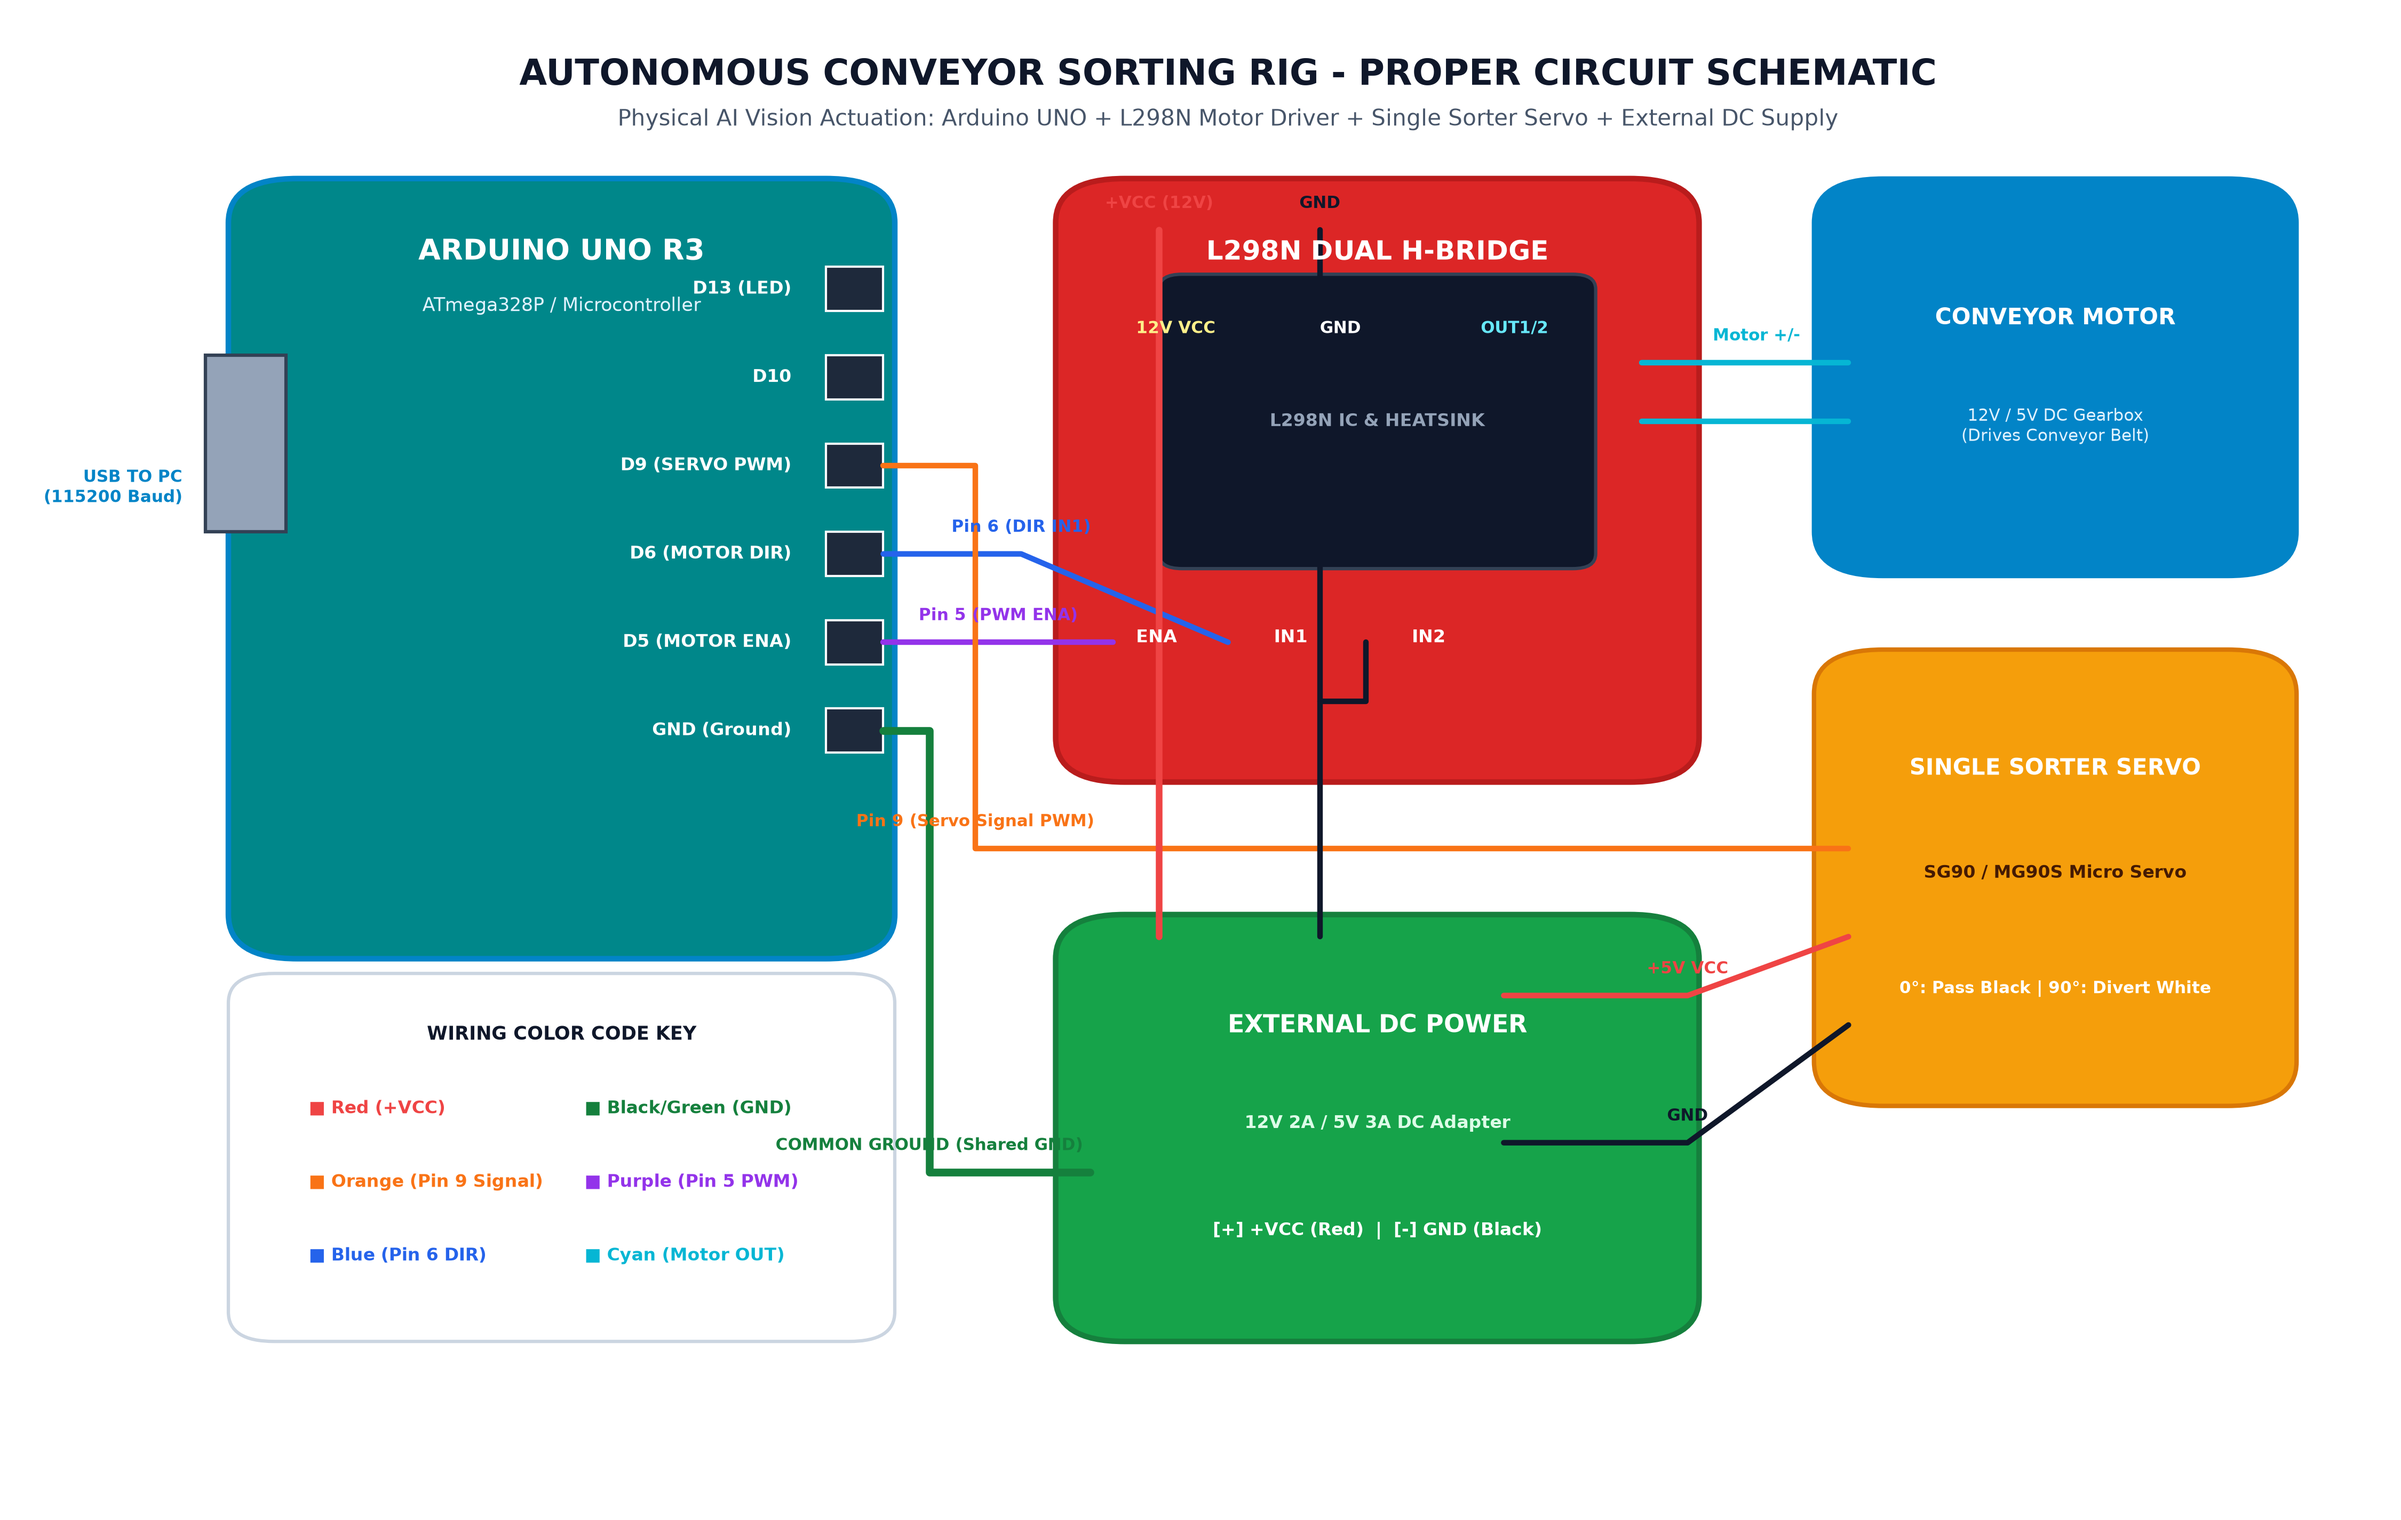
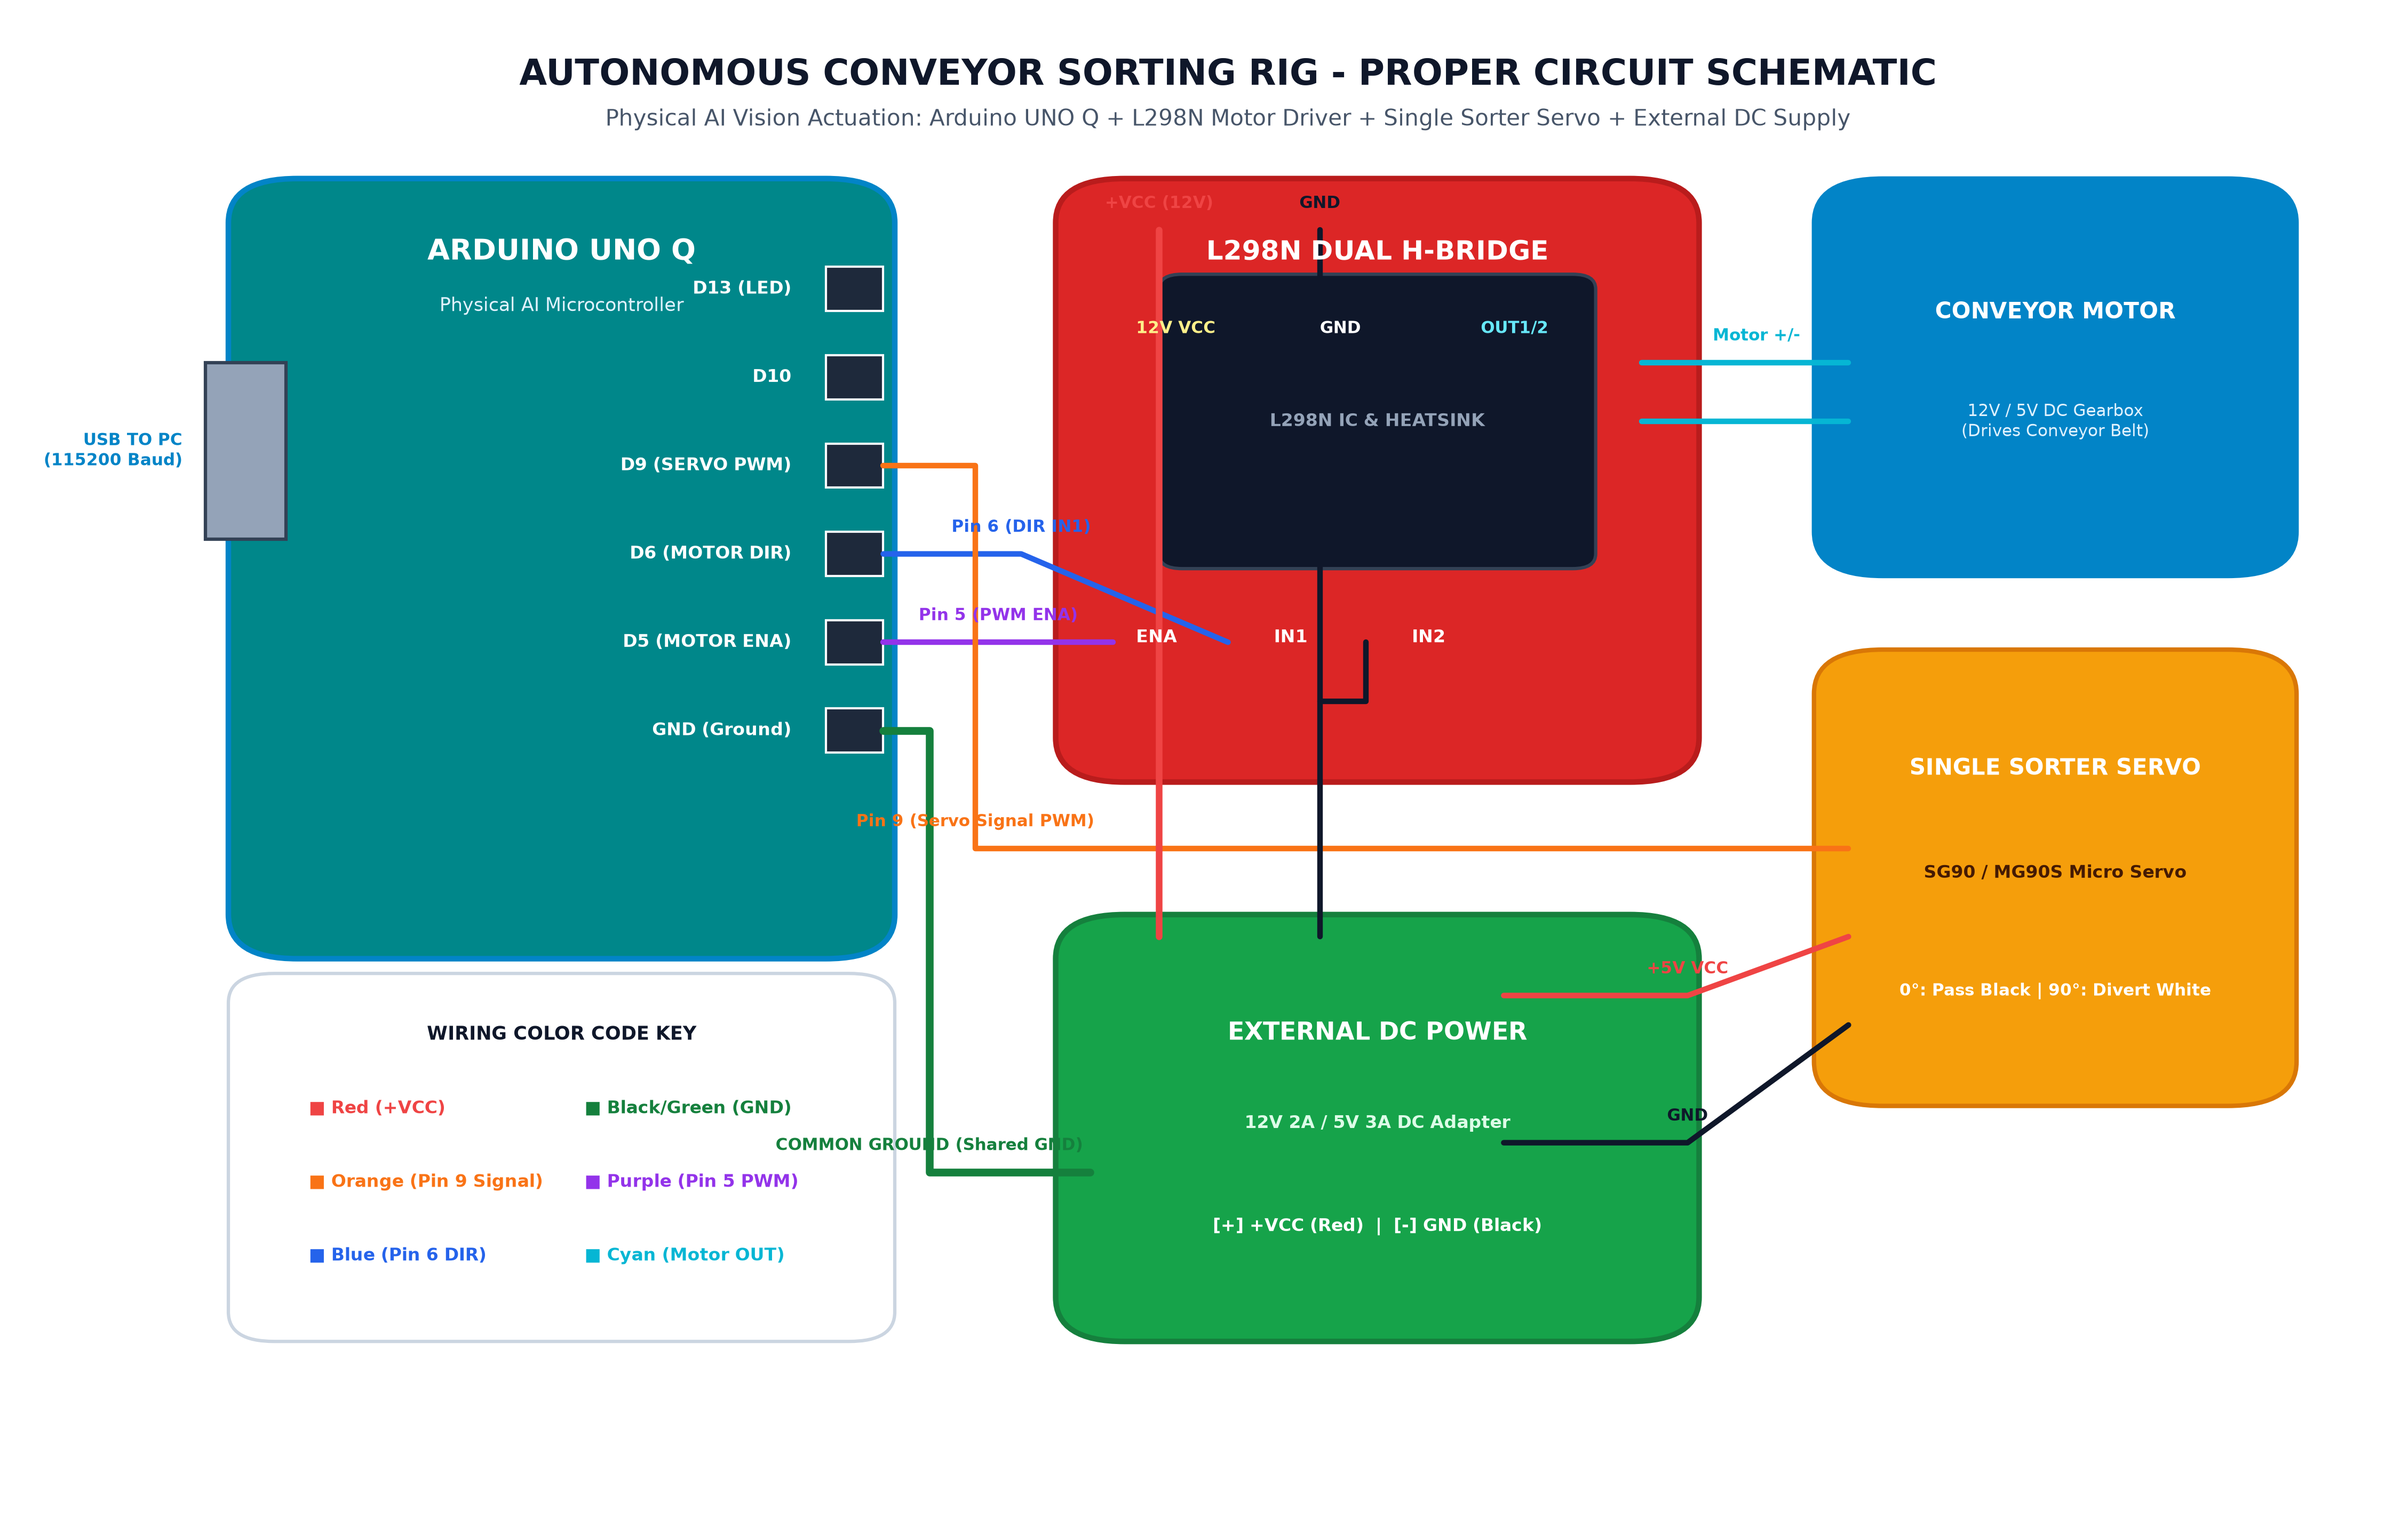
refactor: update all references to Arduino UNO Q microcontroller across firmware, vision backend, diagrams, and documentation

diff --git a/python/main.py b/python/main.py
@@ -226,13 +226,13 @@ class ArduinoSerialManager:
             
             if arduino_port:
                 self.serial_conn = serial.Serial(arduino_port, self.baud_rate, timeout=1.0)
-                time.sleep(1.8) # Allow Arduino bootloader reset
+                time.sleep(1.8) # Allow Arduino UNO Q bootloader reset
                 self.connected = True
-                state.add_log(f"Connected to Arduino on port {arduino_port}")
+                state.add_log(f"Connected to Arduino UNO Q on port {arduino_port}")
                 return True
             else:
                 self.connected = False
-                state.add_log("No physical Arduino detected. Operating in software standalone mode.")
+                state.add_log("No physical Arduino UNO Q detected. Operating in software standalone mode.")
                 return False
         except Exception as e:
             self.connected = False

diff --git a/README.md b/README.md
@@ -2,18 +2,18 @@
 
 [![Python 3.10+](https://img.shields.io/badge/Python-3.10+-3776AB?style=for-the-badge&logo=python&logoColor=white)](https://python.org)
 [![OpenCV](https://img.shields.io/badge/OpenCV-4.10+-5C3EE8?style=for-the-badge&logo=opencv&logoColor=white)](https://opencv.org)
-[![Arduino UNO](https://img.shields.io/badge/Arduino-UNO-00979D?style=for-the-badge&logo=arduino&logoColor=white)](https://arduino.cc)
+[![Arduino UNO Q](https://img.shields.io/badge/Arduino-UNO_Q-00979D?style=for-the-badge&logo=arduino&logoColor=white)](https://arduino.cc)
 [![Flask](https://img.shields.io/badge/Flask-Web_Dashboard-000000?style=for-the-badge&logo=flask&logoColor=white)](https://flask.palletsprojects.com)
 [![Hardware FPS](https://img.shields.io/badge/Stream-60_FPS_Continuous-00ff88?style=for-the-badge)](https://github.com/Hemanth-08-RA/Conveyor_Sorting-Using-Physical-AI)
 
-An industrial-grade, real-time autonomous conveyor sorting station powered by **OpenCV Computer Vision** and **Arduino microcontroller actuation**. The system dynamically detects, classifies, tracks, and mechanically sorts **White** and **Black** cubes on a continuous conveyor belt with sub-millisecond vision latency and 60 FPS continuous hardware-accelerated video feedback.
+An industrial-grade, real-time autonomous conveyor sorting station powered by **OpenCV Computer Vision** and **Arduino UNO Q microcontroller actuation**. The system dynamically detects, classifies, tracks, and mechanically sorts **White** and **Black** cubes on a continuous conveyor belt with sub-millisecond vision latency and 60 FPS continuous hardware-accelerated video feedback.
 
 ---
 
 ## 📸 Live Visual Feedback & Physical Setup
 
 ### 1. Physical Hardware Setup & Conveyor Rig
-The physical sorting setup consists of an automated conveyor belt, an Arduino UNO microcontroller, an L298N motor driver, dual servo diverter arms, collection bins, and an overhead vision camera.
+The physical sorting setup consists of an automated conveyor belt, an **Arduino UNO Q** microcontroller, an L298N motor driver, a single-servo diverter lever arm, collection bins, and an overhead vision camera.
 
 <p align="center">
   <img src="docs/images/conveyor_hardware_setup.jpg" alt="Conveyor Hardware Setup" width="850"/>
@@ -54,7 +54,7 @@ Dual-space chromatic analysis (`LAB` + `HSV`) accurately segmenting a matte whit
   - Single-click orientation controls (Rotate 90°, Flip Horizontal/Vertical).
 - **📹 60 FPS Hardware-Accelerated Camera Stream**:
   - Seamless continuous video feedback using HTML5 direct webcam capture and asynchronous overlay canvas rendering.
-- **🤖 Microcontroller Integration (Arduino UNO)**:
+- **🤖 Microcontroller Integration (Arduino UNO Q)**:
   - Serial protocol communication triggering sorting servos and conveyor motor states automatically.
 
 ---
@@ -70,7 +70,7 @@ flowchart LR
     D -- Yes --> F[🔬 Core Body Color Sampler]
     F --> G[🎯 Classify: WHITE CUBE / BLACK CUBE]
     G --> H[⚡ Centroid Tracker & Single-Count Cooldown]
-    H --> I[🦾 Arduino Serial Actuator Trigger]
+    H --> I[🦾 Arduino UNO Q Serial Actuator Trigger]
 ```
 
 ---
@@ -87,7 +87,7 @@ flowchart LR
 ### 🔬 Operational Architecture & Limitations
 
 - **How the Vision Model Works**:
-  The physical AI vision engine ingests continuous high-speed camera frames at 60 FPS. The incoming frame is converted into dual color spaces: **CIELAB** (for illumination-invariant lightness extraction) and **HSV** (for chromatic saturation isolation). Object contours are evaluated through the **Ramer–Douglas–Peucker polygon approximation algorithm (`cv2.approxPolyDP`)** to strictly filter and enforce 4-vertex square quadrilateral geometry ($0.68 \le \text{Aspect Ratio} \le 1.45$). Verified physical cubes undergo an **interior core body sample** to confirm target luminance while rejecting human skin tones ($H \in [0, 25], S > 55$), reaching hands, cast shadows, and wood grain reflections. A centroid tracking engine logs item counts and dispatches serial actuation commands (`sort_white` / `sort_black`) to the Arduino UNO.
+  The physical AI vision engine ingests continuous high-speed camera frames at 60 FPS. The incoming frame is converted into dual color spaces: **CIELAB** (for illumination-invariant lightness extraction) and **HSV** (for chromatic saturation isolation). Object contours are evaluated through the **Ramer–Douglas–Peucker polygon approximation algorithm (`cv2.approxPolyDP`)** to strictly filter and enforce 4-vertex square quadrilateral geometry ($0.68 \le \text{Aspect Ratio} \le 1.45$). Verified physical cubes undergo an **interior core body sample** to confirm target luminance while rejecting human skin tones ($H \in [0, 25], S > 55$), reaching hands, cast shadows, and wood grain reflections. A centroid tracking engine logs item counts and dispatches serial actuation commands (`sort_white` / `sort_black`) to the **Arduino UNO Q**.
 
 - **System Limitations**:
   1. **Low-Light Environments ($< 10\text{ lux}$)**: Severe lack of illumination reduces the contrast difference between black cubes and dark conveyor shadows below the detection threshold.
@@ -115,12 +115,12 @@ graph TD
         OPENCV --> USB_PORT
     end
 
-    subgraph Controller ["Arduino UNO Microcontroller"]
-        ARDUINO["Arduino UNO Board"]
+    subgraph Controller ["Arduino UNO Q Microcontroller"]
+        ARDUINO["Arduino UNO Q Board"]
         P5["Digital Pin 5 - Motor PWM Enable"]
         P6["Digital Pin 6 - Motor Direction IN1"]
         P9["Digital Pin 9 - Sorter Servo Signal"]
-        GND_A["Arduino GND Reference"]
+        GND_A["Arduino UNO Q GND Reference"]
         
         USB_PORT <== USB Cable ==> ARDUINO
         ARDUINO --> P5
@@ -172,7 +172,7 @@ graph TD
 
 ### 3. Complete Pin-by-Pin Wiring Table
 
-| Component Module | Component Pin | Arduino UNO Pin | External Power Rail | Function / Description |
+| Component Module | Component Pin | Arduino UNO Q Pin | External Power Rail | Function / Description |
 | :--- | :--- | :--- | :--- | :--- |
 | **L298N Driver** | `ENA` (Enable A) | **Digital Pin 5** | — | PWM Speed & motor enable |
 | **L298N Driver** | `IN1` (Direction 1) | **Digital Pin 6** | — | Conveyor forward rotation |
@@ -186,10 +186,10 @@ graph TD
 | **Host PC Connection** | `USB-B Port` | USB Cable | PC USB Port | Serial communication @ 115200 baud |
 
 > [!IMPORTANT]
-> **Common Ground Rule**: Always tie the **GND** of the Arduino UNO directly to the **GND** of the external power supply and L298N motor driver. Without a shared ground reference, control signals will float.
+> **Common Ground Rule**: Always tie the **GND** of the Arduino UNO Q directly to the **GND** of the external power supply and L298N motor driver. Without a shared ground reference, control signals will float.
 
 > [!TIP]
-> **Power Isolation**: Never power the DC motor or servo directly from the Arduino 5V header. Motors and servos draw instantaneous current surges that cause microcontroller resets. Always power them from an external 5V/12V DC source.
+> **Power Isolation**: Never power the DC motor or servo directly from the Arduino UNO Q 5V header. Motors and servos draw instantaneous current surges that cause microcontroller resets. Always power them from an external 5V/12V DC source.
 
 ---
 
@@ -206,9 +206,9 @@ cd Conveyor_Sorting-Using-Physical-AI
 pip install -r python/requirements.txt
 ```
 
-### 3. Flash Arduino Firmware
+### 3. Flash Arduino UNO Q Firmware
 1. Open `sketch/sketch.ino` in the Arduino IDE.
-2. Select your board (`Arduino UNO`) and COM port.
+2. Select your board (**Arduino UNO Q** / Uno compatible) and COM port.
 3. Upload the sketch.
 
 ### 4. Launch the Dashboard
@@ -232,13 +232,14 @@ Conveyor_Sorting-Using-Physical-AI/
 │   └── images/              # Demonstration images & setup photos
 │       ├── black_cube_detection.jpg
 │       ├── white_cube_detection.jpg
-│       └── conveyor_hardware_setup.jpg
+│       ├── conveyor_hardware_setup.jpg
+│       └── proper_circuit_diagram.png
 ├── python/
 │   ├── main.py              # Sub-millisecond OpenCV vision core & Flask web server
 │   ├── requirements.txt     # Python package requirements
 │   └── templates/           # Reference cube templates
 ├── sketch/
-│   ├── sketch.ino           # Arduino UNO actuator firmware
+│   ├── sketch.ino           # Arduino UNO Q actuator firmware
 │   └── sketch.yaml          # Arduino CLI config
 ├── run_and_open_dashboard.bat # One-click launcher for Windows
 └── README.md                # Project documentation
